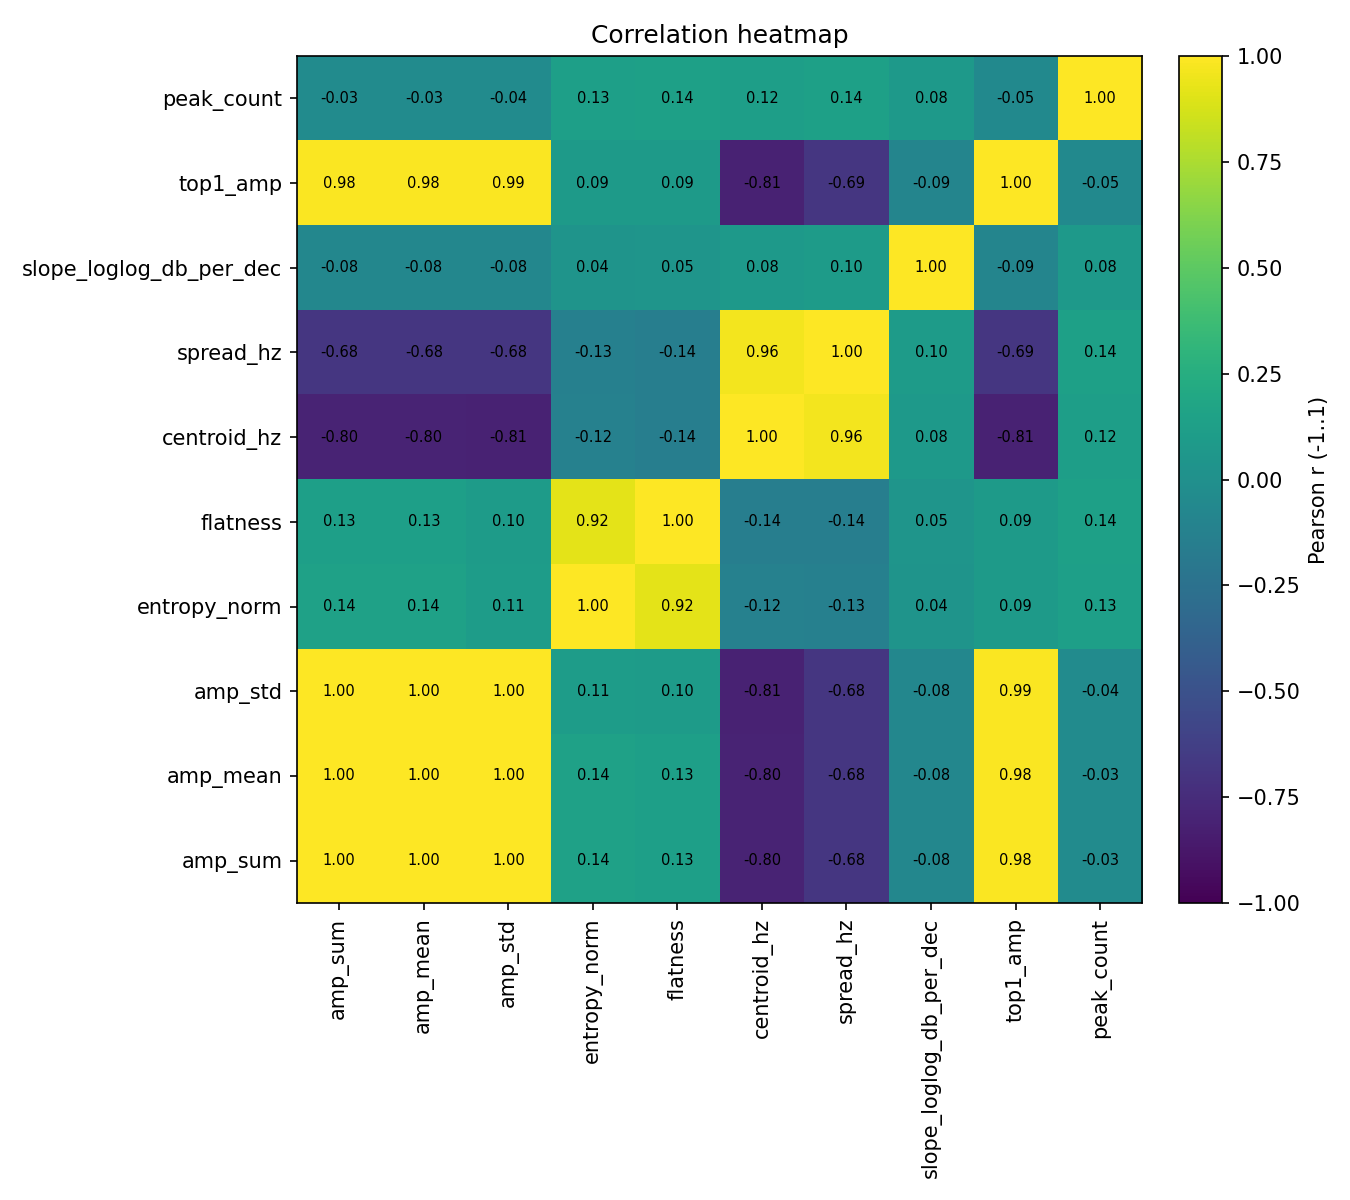
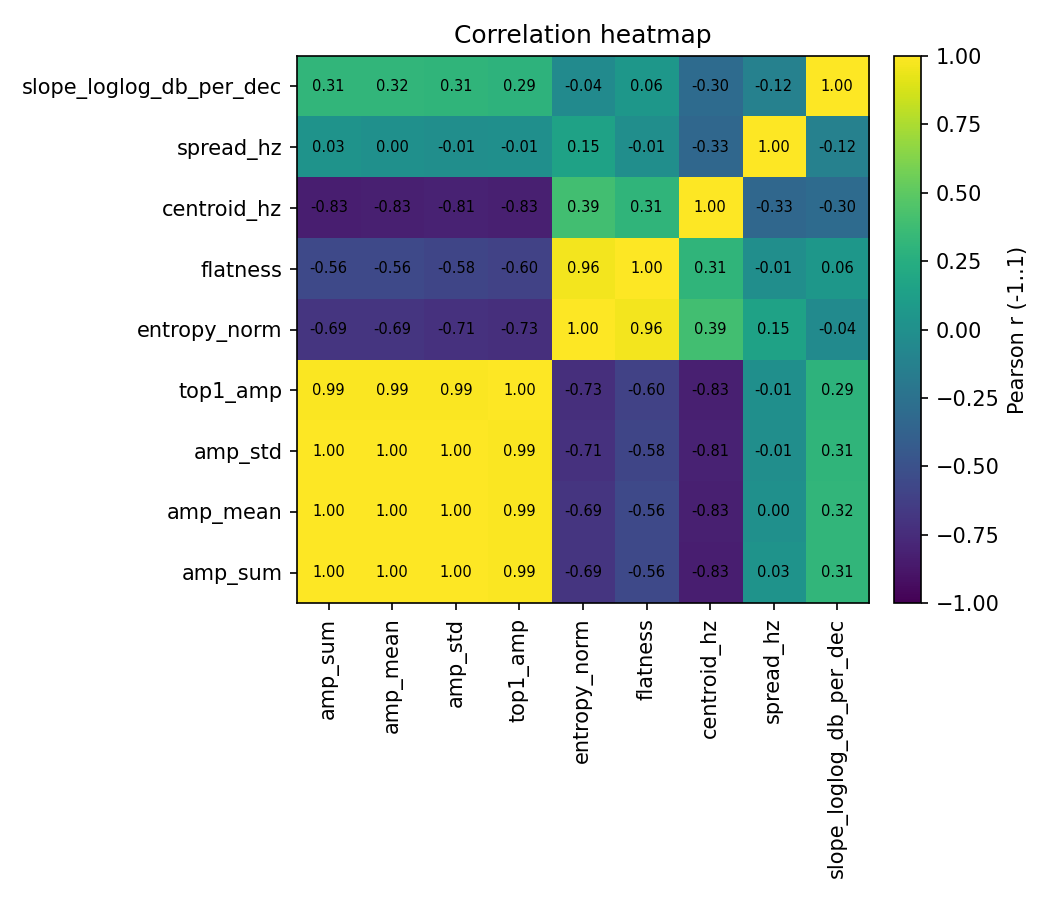
25.09.25 update

diff --git a/workLog/2025/09/250925.md b/workLog/2025/09/250925.md
@@ -1,0 +1,88 @@
+
+# [25.09.24] 
+---
+## ▶ VL
+- 객체감지 모델 학습 중
+
+---
+      
+
+## ▶ ON
+- 스펙트럼(주파수–진폭) 데이터에서 인접한 bin들에 대해
+규모(세기), 형태(균일성), 위치(치우침,폭), 경향(기울기)에 대한 특성 추출
+- 비지도 학습에 사용할 피처 해석 및 선정
+- 20 bin = 1 세그먼트, 오버랩 50% 적용
+  ![alt text](/image/corr_heatmap_segments.png)
+- 추출된 특성은 9개
+  - 규모
+    1. **amp_sum** - 세그먼트 진폭의 합
+        - 구간 전체의 총량
+        - 총 세기를 직관적으로 표현
+        - 세그먼트마다 bin 개수가 같다면 amp_sum과 amp_mean은 완전히 비례
+        - bin 개수가 다르면 비교가 왜곡될 수 있음
+    2. **amp_mean** - 세그먼트 평균 진폭
+        - 스파이크에 덜 민감함(안정적)
+        - 여러 작은 값에 큰 피크 하나가 있어도 값이 올라감(평균의 함정)
+    3. **amp_std** - 세그먼트 진폭의 표준편차
+        - 구간 내 진폭 값들의 변동성을 의미
+        - 높을 경우 몇몇 bin이 크게 튀거나, 값의 분산이 큼
+        - 낮을 경우 값들이 평균 주변에 모여 있음
+        - 크기뿐 아니라 균일/비균일을 일부 반영
+        - 규모 자체가 큰 구간은 평균도 크기 때문에 표준편차도 같이 커지는 경향이 강함
+    4. **top1_amp** - 세그먼트에서 가장 큰 진폭
+        - 해당 구간에 가장 큰 피크 값
+        - 세기를 직관적으로 잘 잡아냄
+        - 노이즈 스파이크에 민감함에 따라 사전 필터링/스무딩이 필요한 경우도 있음
+  - 형태
+    1. **flatness**
+        - 세그먼트 진폭들의 기하평균/산술평균
+        - 값이 클수록 균일하며 작을수록 특정 주파수가 큼
+        - 스케일(전체크기)에 둔감
+    2. **entropy_normalization**
+        - 진폭을 확률처럼 정규화한 뒤 샤논 엔트로피를 0~1로 정규화
+        - 값이 클수록 균일하며 작을수록 특정 주파수가 큼
+        - 분포의 균등도를 직관적으로 수치화
+  - 위치/폭
+    1. **centroid_hz(스펙트럼 중심 주파수)**
+        - 진폭을 가중치로 한 주파수의 가중평균
+        - 세그먼트 안에서 진폭이 무게중심을 어디에 두고 있는지를 의미
+        - 값이 낮으면 저주파쪽, 값이 높으면 고주파쪽
+        - 어느 쪽으로 치우쳤는지 직관적으로 표현
+    2. **spread_hz(가중 표준편차)**
+        - centroid_hz를 중심으로 한 진폭 가중 표준편차
+        - 값이 작으면 한쪽 주파수대에 진폭이 집중, 크면 진폭이 여러 주파수대로 분산
+        - 전체 크기가 같아도 퍼짐은 달라질 수 있음에 따라 클러스터링/이상치 탐지에 좋음
+  - 기울기(트랜드)
+    1. slope_loglog_db_per_dec
+        - 주파수를 10배 올릴 때 진폭이 몇 dB변하는지를 나타내는 기울기
+        - 세그먼트가 저주파 위주냐(음수), 고주파 위주냐(양수)를 숫자 하나로 판단
+        - 다른 특징(규모/평탄/위치/폭)과 중복이 적은 축이라, 클러스터링·이상치 탐지에서 분리력에 도움
+
+  ✔ 피처 선정     
+      **규모(amp_sum/mean/std/top1_amp)** 는 서로 0.99~1.00로 거의 동일 정보 → 대표 1개만 쓰면 됨(예: amp_mean)
+      **형태(entropy_norm/flatness)** 도 서로 0.95~0.96로 중복 → 대표 1개만(예: flatness)
+      **위치(centroid_hz)** 는 규모와 강한 음의 상관(≈−0.83) → 크면 주로 저주파 치우침
+      **폭(spread_hz)** 은 대부분과 상관이 거의 0 → 독립 정보라 반드시 포함 가치 높음
+      **기울기(slope_loglog_db_per_dec)** 는 약한 독립 축 
+      ▶ **최종 피처셋** : [amp_mean, flatness, centroid_hz, spread_hz, slope_loglog_db_per_dec]   
+
+
+---
+   
+<!-- ## ▶ etc.
+- 주간회의 진행
+--- -->
+
+### ✅ TODO list
+- 이상데이터 수령 시 데이터 분석 (09/26)
+- 이미지 라벨링 및 학습 진행
+  - yolov11n 학습 (09/26)
+- 논문 작성(09/30)
+  - 데미지(누적손상) 기반 수명 예측 활용 검토 (상시)
+    - 온도를 사용하는 수명예측 방법인 아레니우스 모델 외 다른 스트레스 요인을 활용한 수명예측 방법에 대한 자료가 있으면 우선 검토 필요
+  - 비지도 학습 검토 같이 진행 반영
+
+---
+
+ <!-- VS code로 확인 가능, 단축키 : ctrl + shift + v -->
+ <!-- 주석 단축키 똑같음 -->

diff --git a/README.md b/README.md
@@ -8,6 +8,7 @@
 
 ### 📅 2025년 09월
 
+- [09월 25일 work log](./workLog/2025/09/250925.md)
 - [09월 24일 work log](./workLog/2025/09/250924.md)
 - [09월 23일 work log](./workLog/2025/09/250923.md)
 - [09월 22일 work log](./workLog/2025/09/250922.md)
